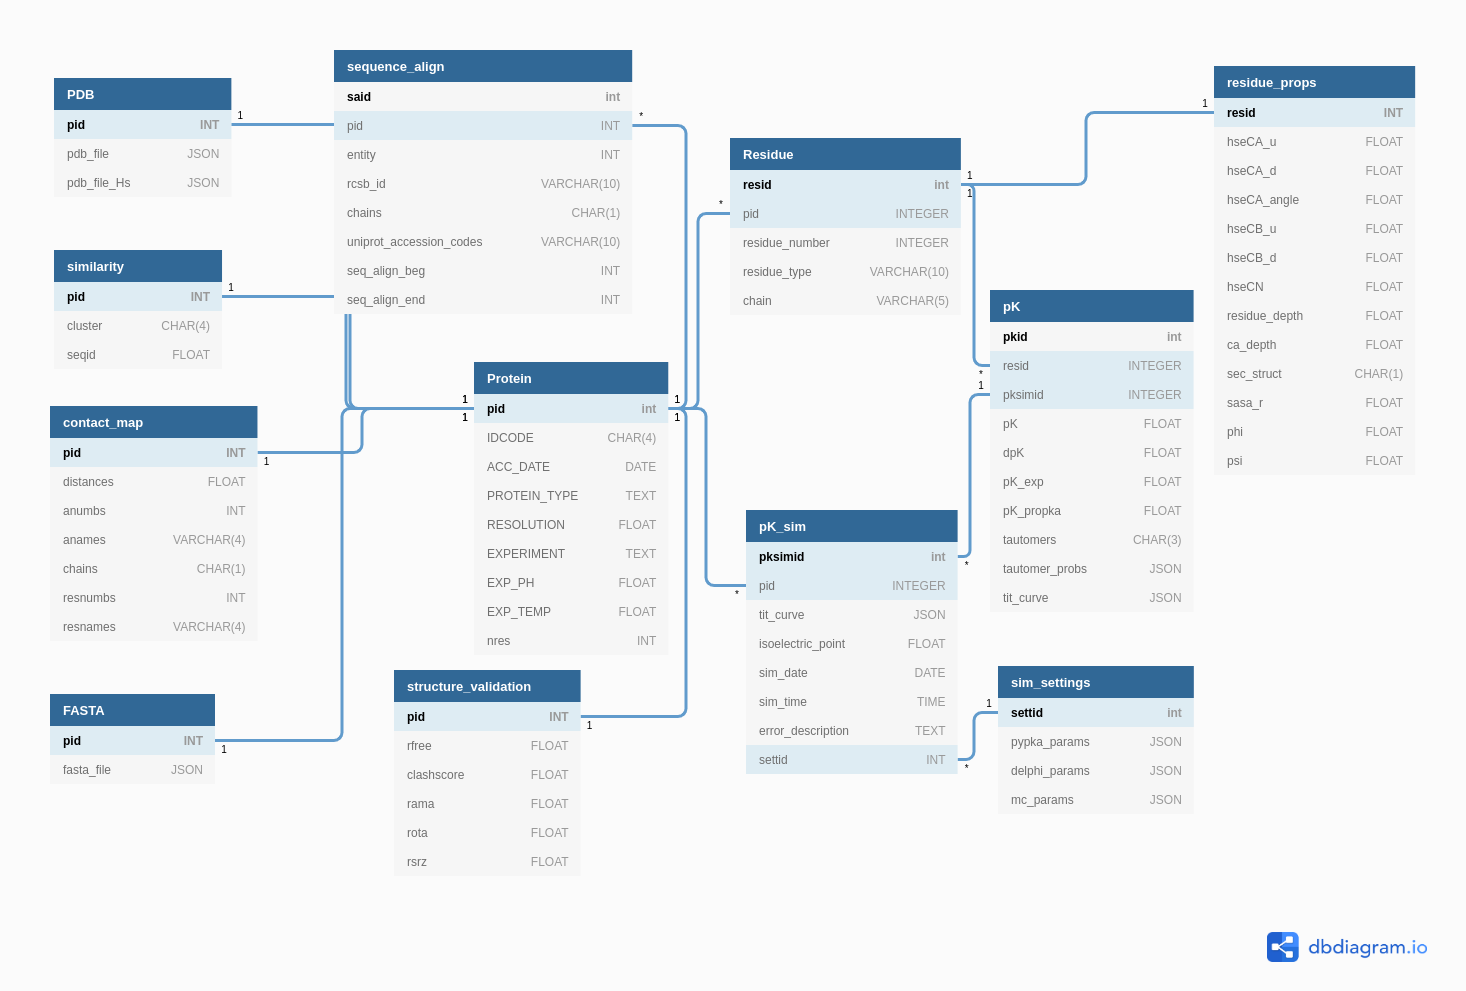
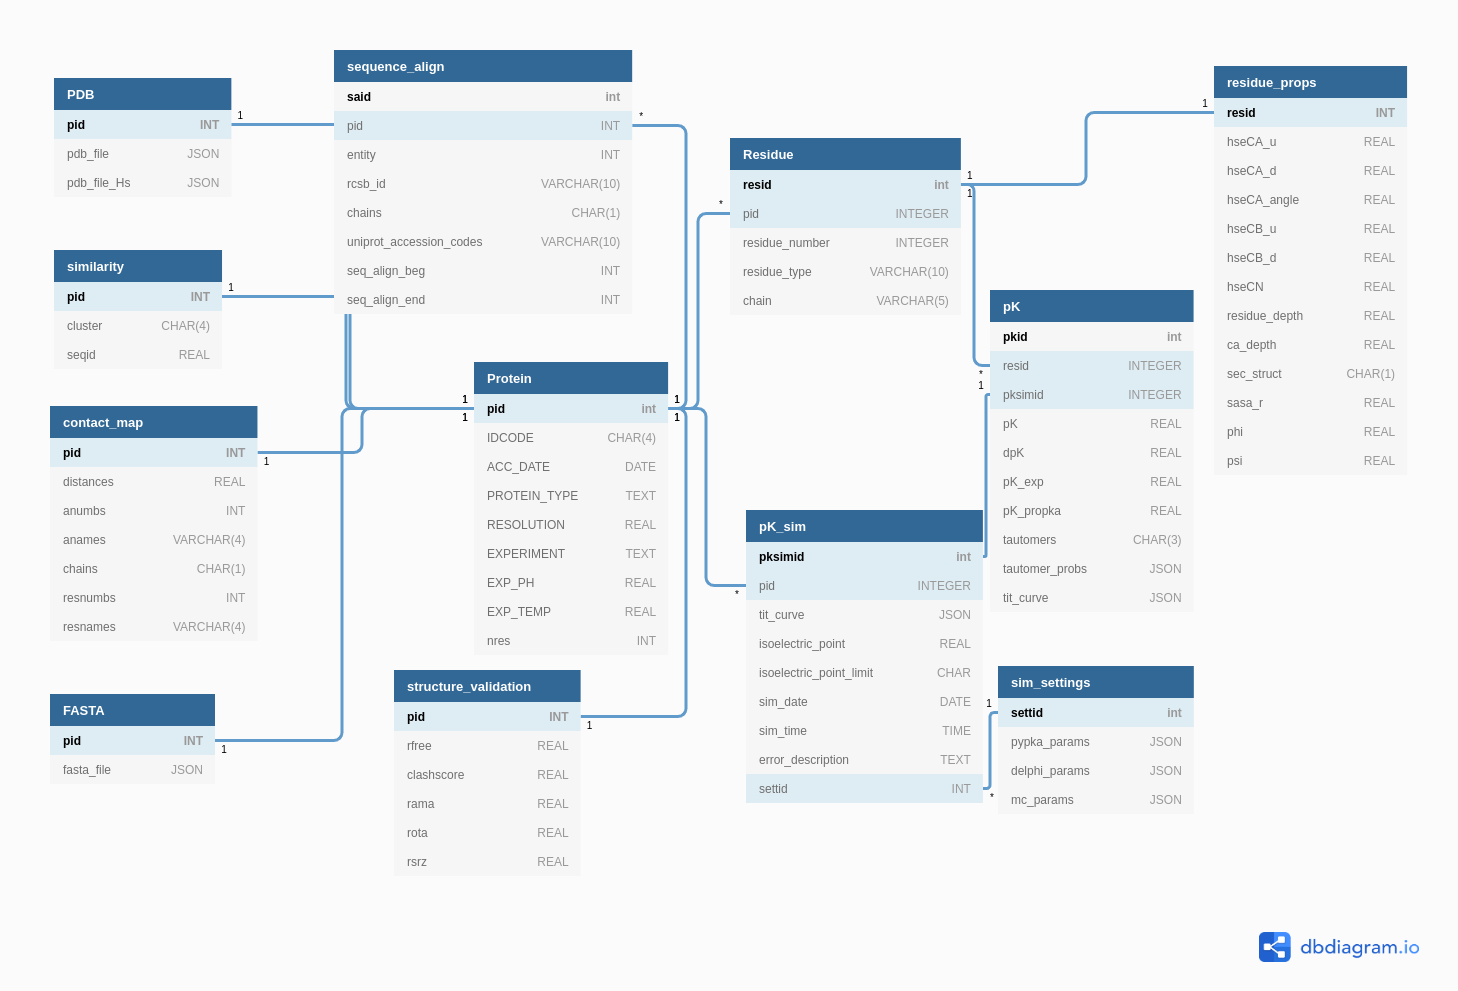
added isoelectric point limits; small bug fix; transformed all float fields into real

diff --git a/src/db.py b/src/db.py
@@ -1,5 +1,5 @@
 from sqlalchemy import create_engine, ForeignKeyConstraint, UniqueConstraint
-from sqlalchemy import Column, Integer, Float, Date, CHAR, JSON, Time, Text, VARCHAR
+from sqlalchemy import Column, Integer, Date, CHAR, JSON, Time, Text, VARCHAR, REAL
 from sqlalchemy.ext.declarative import declarative_base
 from sqlalchemy.orm import sessionmaker
 import psycopg2
@@ -27,10 +27,10 @@ class Protein(Base):
     idcode = Column(CHAR, unique=True)
     acc_date = Column(Date)
     protein_type = Column(Text)
-    resolution = Column(Float)
+    resolution = Column(REAL)
     experiment = Column(Text)
-    exp_ph = Column(Float)
-    exp_temp = Column(Float)
+    exp_ph = Column(REAL)
+    exp_temp = Column(REAL)
     nres = Column(Integer)
 
 
@@ -51,11 +51,11 @@ class StructureValidation(Base):
     __tablename__ = "structure_validation"
 
     pid = Column(Integer, primary_key=True)
-    rfree = Column(Float)
-    clashscore = Column(Float)
-    rama = Column(Float)
-    rota = Column(Float)
-    rsrz = Column(Float)
+    rfree = Column(REAL)
+    clashscore = Column(REAL)
+    rama = Column(REAL)
+    rota = Column(REAL)
+    rsrz = Column(REAL)
     ForeignKeyConstraint(["pid"], ["protein.pid"])
 
 
@@ -74,7 +74,8 @@ class Pk_sim(Base):
     pksimid = Column(Integer, primary_key=True)
     pid = Column(Integer, unique=True, nullable=False)
     tit_curve = Column(JSON)
-    isoelectric_point = Column(Float)
+    isoelectric_point = Column(REAL)
+    isoelectric_point_limit = Column(CHAR)
     sim_date = Column(Date)
     sim_time = Column(Time)
     settid = Column(Integer)
@@ -100,9 +101,9 @@ class Pk(Base):
     pkid = Column(Integer, primary_key=True)
     resid = Column(Integer, nullable=False)
     pksimid = Column(Integer, nullable=False)
-    pk = Column(Float)
-    dpk = Column(Float)
-    pk_propka = Column(Float)
+    pk = Column(REAL)
+    dpk = Column(REAL)
+    pk_propka = Column(REAL)
     tautomers = Column(CHAR, nullable=False)
     tautomer_probs = Column(JSON, nullable=False)
     tit_curve = Column(JSON, nullable=False)
@@ -123,7 +124,7 @@ class Contact_map(Base):
     __tablename__ = "contact_map"
 
     pid = Column(Integer, primary_key=True)
-    distances = Column(Float, nullable=False)
+    distances = Column(REAL, nullable=False)
     anumbs = Column(Integer, nullable=False)
     anames = Column(CHAR, nullable=False)
     chains = Column(CHAR, nullable=False)
@@ -136,18 +137,18 @@ class Residue_props(Base):
     __tablename__ = "residue_props"
 
     resid = Column(Integer, primary_key=True)
-    hseca_u = Column(Float)
-    hseca_d = Column(Float)
-    hseca_angle = Column(Float)
-    hsecb_u = Column(Float)
-    hsecb_d = Column(Float)
-    hsecn = Column(Float)
-    residue_depth = Column(Float)
-    ca_depth = Column(Float)
+    hseca_u = Column(REAL)
+    hseca_d = Column(REAL)
+    hseca_angle = Column(REAL)
+    hsecb_u = Column(REAL)
+    hsecb_d = Column(REAL)
+    hsecn = Column(REAL)
+    residue_depth = Column(REAL)
+    ca_depth = Column(REAL)
     sec_struct = Column(CHAR)
-    sasa_r = Column(Float)
-    phi = Column(Float)
-    psi = Column(Float)
+    sasa_r = Column(REAL)
+    phi = Column(REAL)
+    psi = Column(REAL)
     ForeignKeyConstraint(["resid"], ["residue.resid"])
 
 
@@ -164,7 +165,7 @@ class Similarity(Base):
 
     pid = Column(Integer, primary_key=True)
     cluster = Column(CHAR, nullable=False)
-    seqid = Column(Float, nullable=False)
+    seqid = Column(REAL, nullable=False)
     ForeignKeyConstraint(["pid"], ["protein.pid"])
 
 

diff --git a/src/fill.py b/src/fill.py
@@ -20,6 +20,7 @@ parser = argparse.ArgumentParser()
 parser.add_argument("--ncpus", default=8, type=int)
 parser.add_argument("--idcode", type=str)
 parser.add_argument("--nres-limit", default=500, type=int)
+parser.add_argument("--no-post-processing", default=False, action="store_true")
 parser.add_argument(
     "--verbose", default="INFO", type=str, choices=["DEBUG", "INFO", "WARNING"]
 )
@@ -73,8 +74,6 @@ def run_pypka(fname: str, pdb_file_Hs: str) -> pypka.Titration:
         "save_pdb": pdb_file_Hs,
     }
     tit = pypka.Titration(parameters)
-
-    tit.getIsoelectricPoint()
 
     return tit
 
@@ -166,6 +165,11 @@ def save_titration_curve(tit):
 def save_isoelectric_point(tit):
     # Save total titration curve
     isoelectric_point = tit.getIsoelectricPoint()
+    if type(isoelectric_point) == tuple:
+        pH, limit, charge = isoelectric_point
+        isoelectric_point = pH
+        NEW_PK_SIM.isoelectric_point_limit = limit
+
     NEW_PK_SIM.isoelectric_point = isoelectric_point
     session.commit()
 
@@ -232,7 +236,7 @@ def save_pks(pid: int, tit: pypka.Titration) -> None:
 
 
 def choose_protein() -> Tuple[int, str, Pk_sim, Protein]:
-    def register_sim(pid: int) -> Pk_sim:
+    def register_sim(pid: int, force=False) -> Pk_sim:
         try:
             new_sim = Pk_sim(
                 pid=pid, sim_date=func.current_date(), sim_time=func.current_time()
@@ -240,15 +244,33 @@ def choose_protein() -> Tuple[int, str, Pk_sim, Protein]:
             session.add(new_sim)
             session.commit()
         except:
-            logging.error("The protein has already been calculated")
-            exit()
+            if force:
+                session.rollback()
+
+                del_pksimid = session.query(Pk_sim.pksimid).filter(Pk_sim.pid == pid)
+                to_del = session.query(Pk).filter(Pk.pksimid == del_pksimid)
+                to_del.delete(synchronize_session=False)
+
+                to_del = session.query(Pk_sim).filter(Pk_sim.pid == pid)
+                to_del.delete(synchronize_session=False)
+
+                session.commit()
+
+                new_sim = Pk_sim(
+                    pid=pid, sim_date=func.current_date(), sim_time=func.current_time()
+                )
+                session.add(new_sim)
+                session.commit()
+            else:
+                logging.error("The protein has already been calculated")
+                exit()
         return new_sim
 
     if args.idcode:
         # Use input idcode
         idcode = args.idcode
-        pid = session.query(Protein.pid).filter_by(idcode=idcode).first()
-        NEW_PK_SIM = register_sim(pid)
+        pid = session.query(Protein.pid).filter_by(idcode=idcode).first()[0]
+        NEW_PK_SIM = register_sim(pid, force=True)
 
     else:
         # Get a protein that with no previous pka prediction
@@ -345,7 +367,7 @@ if __name__ == "__main__":
 
     nres, CUR_PDB, fpdb_name = fetch_pdb(pid, idcode)
 
-    if nres > args.nres_limit or args.idcode:
+    if nres > args.nres_limit and not args.idcode:
         logging.info(
             f"Protein {idcode} has {nres}. nres-limit is set to {args.nres_limit}"
         )
@@ -354,6 +376,6 @@ if __name__ == "__main__":
 
     success_status = try_to_run_pypka(pid, idcode, fpdb_name)
 
-    if success_status:
+    if success_status and not args.no_post_processing:
         run_all(pid, idcode)  # run_post_processing(pid, idcode, pdbDB)
         logging.info(f"Post-processing of {idcode} succeeded!")

diff --git a/src/extra_properties/annotations.py b/src/extra_properties/annotations.py
@@ -55,7 +55,7 @@ def save_experimental_conditions(idcode, pid):
         elif line.startswith("_exptl_crystal_grow.temp"):
             tmp_temp = handle_cif_line(line, float)
             if tmp_temp:
-                temp = tmp_temp
+                temperature = tmp_temp
         elif line.startswith("_em_buffer.pH"):
             tmp_ph = handle_cif_line(line, float)
             if tmp_ph:
@@ -63,7 +63,7 @@ def save_experimental_conditions(idcode, pid):
         elif line.startswith("_pdbx_nmr_exptl_sample_conditions.temperature"):
             tmp_temp = handle_cif_line(line, float)
             if tmp_temp:
-                temp = tmp_temp
+                temperature = tmp_temp
         elif line.startswith("_em_buffer.pH"):
             tmp_ph = handle_cif_line(line, float)
             if tmp_ph:
@@ -74,7 +74,7 @@ def save_experimental_conditions(idcode, pid):
         if ph:
             protein.exp_ph = ph
         if temperature:
-            protein.exp_temp = temp
+            protein.exp_temp = temperature
         session.commit()
 
 
